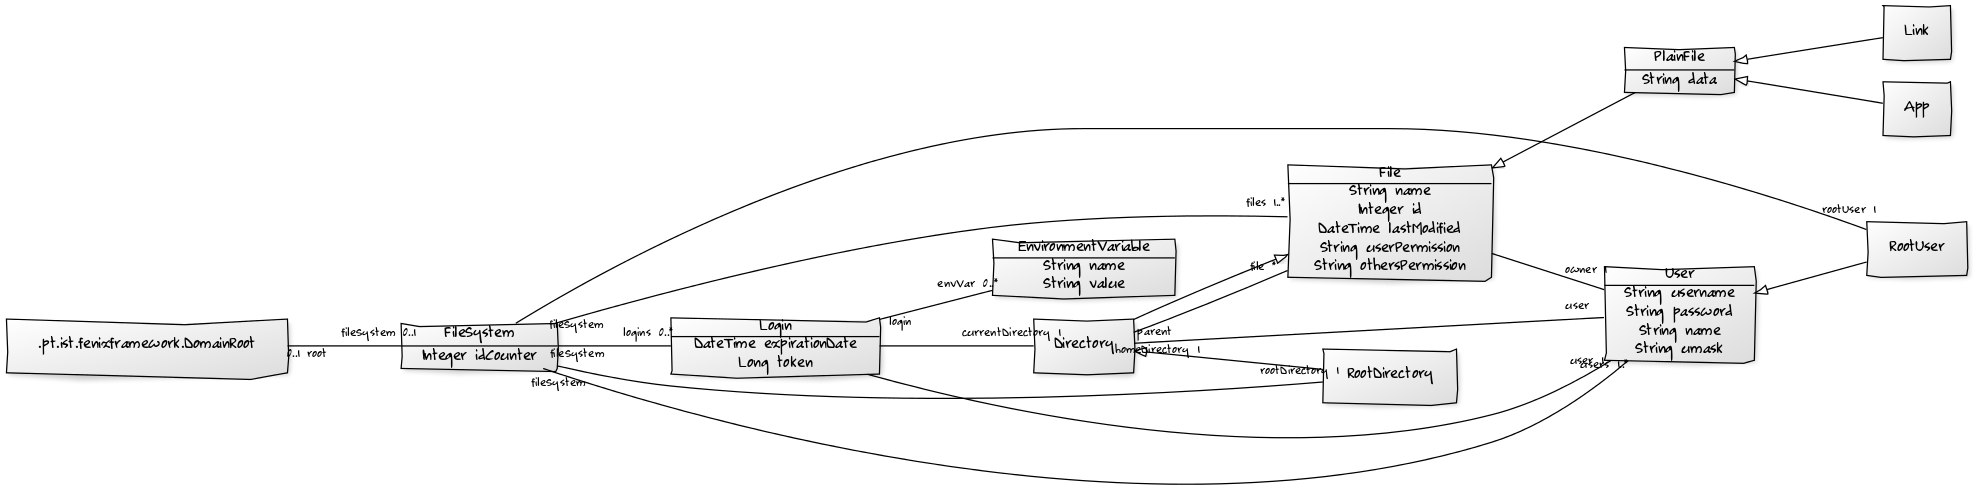
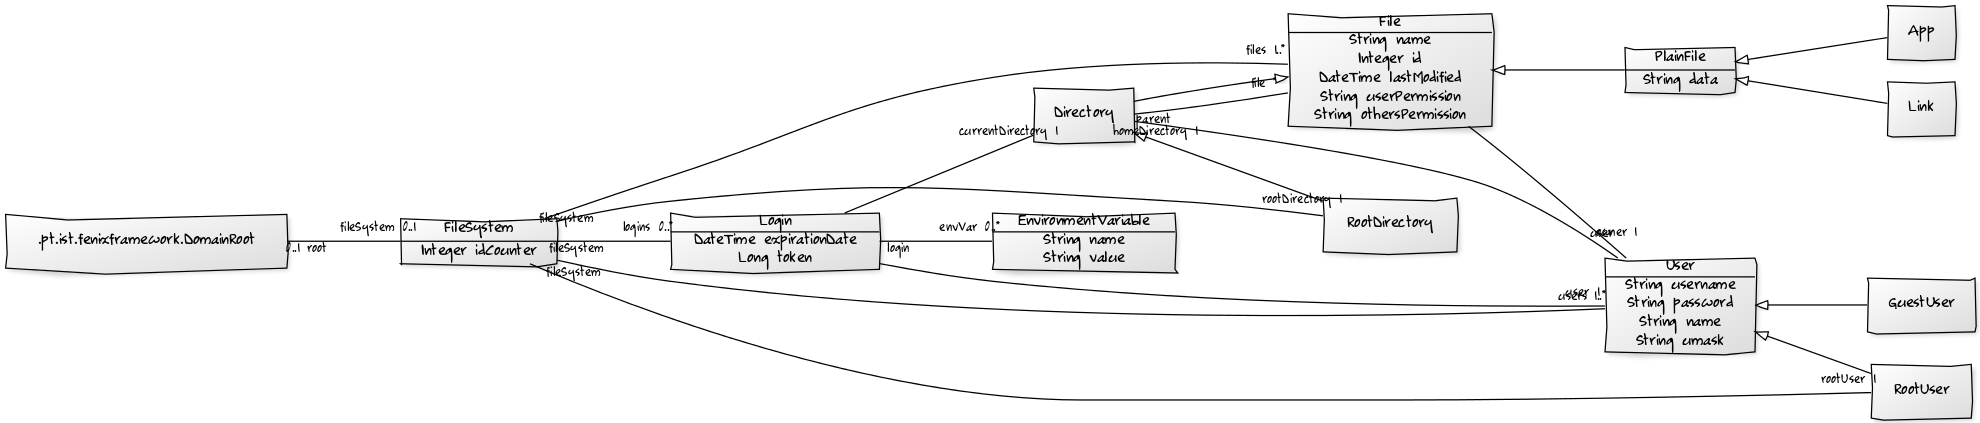
Added GuestUser to DML

diff --git a/src/main/java/pt/tecnico/myDrive/domain/GuestUser.java b/src/main/java/pt/tecnico/myDrive/domain/GuestUser.java
@@ -1,0 +1,9 @@
+package pt.tecnico.myDrive.domain;
+
+public class GuestUser extends GuestUser_Base {
+    
+    public GuestUser() {
+        super();
+    }
+    
+}
